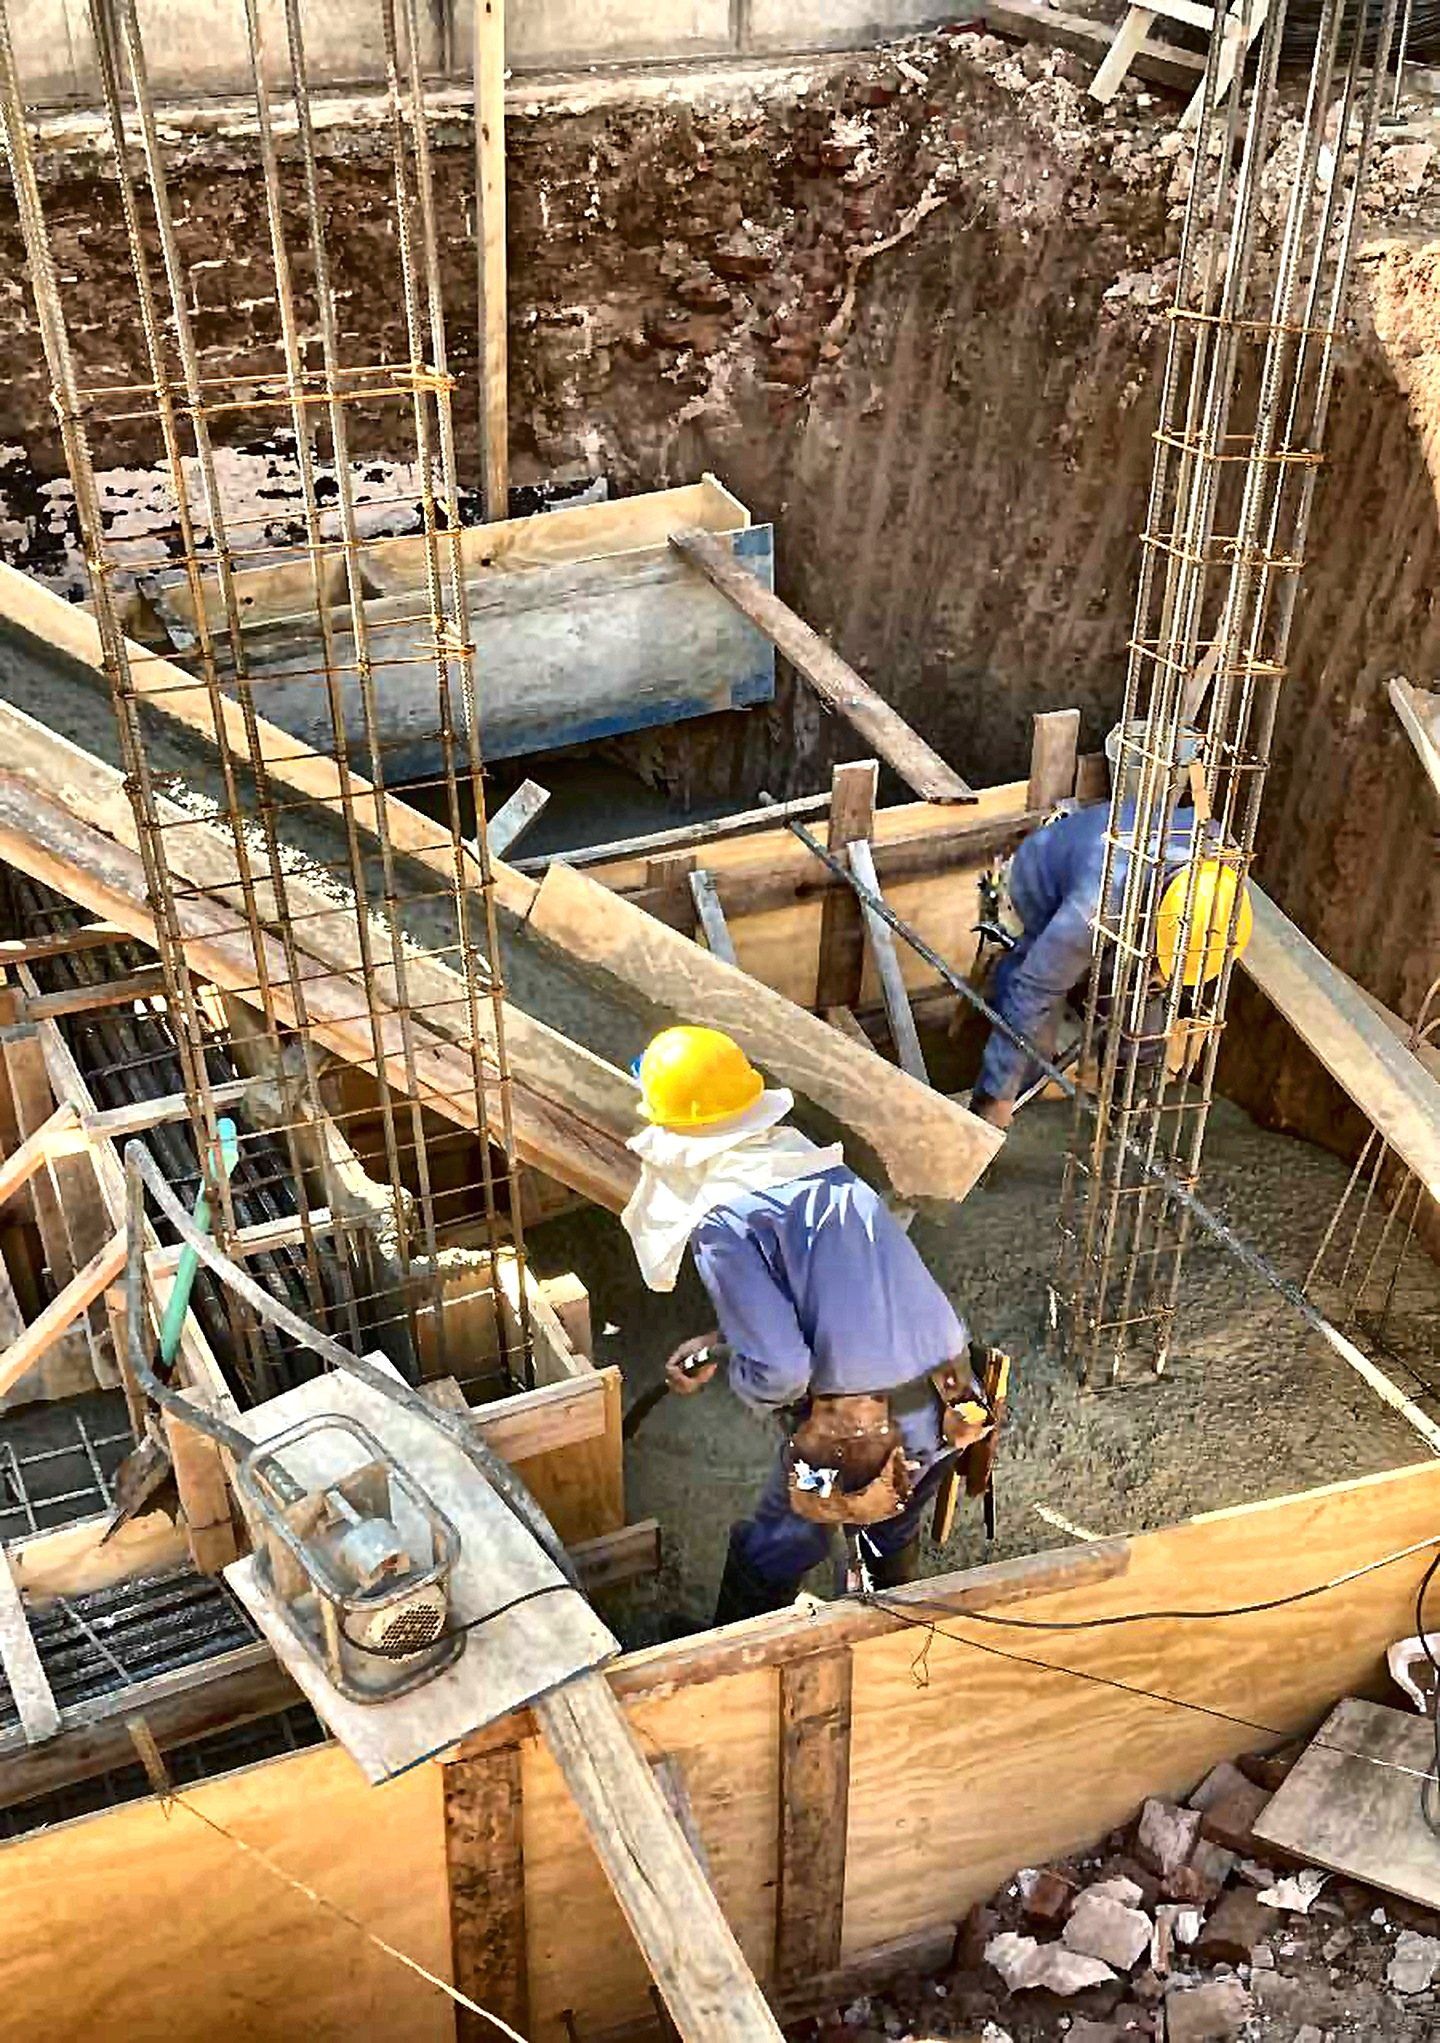
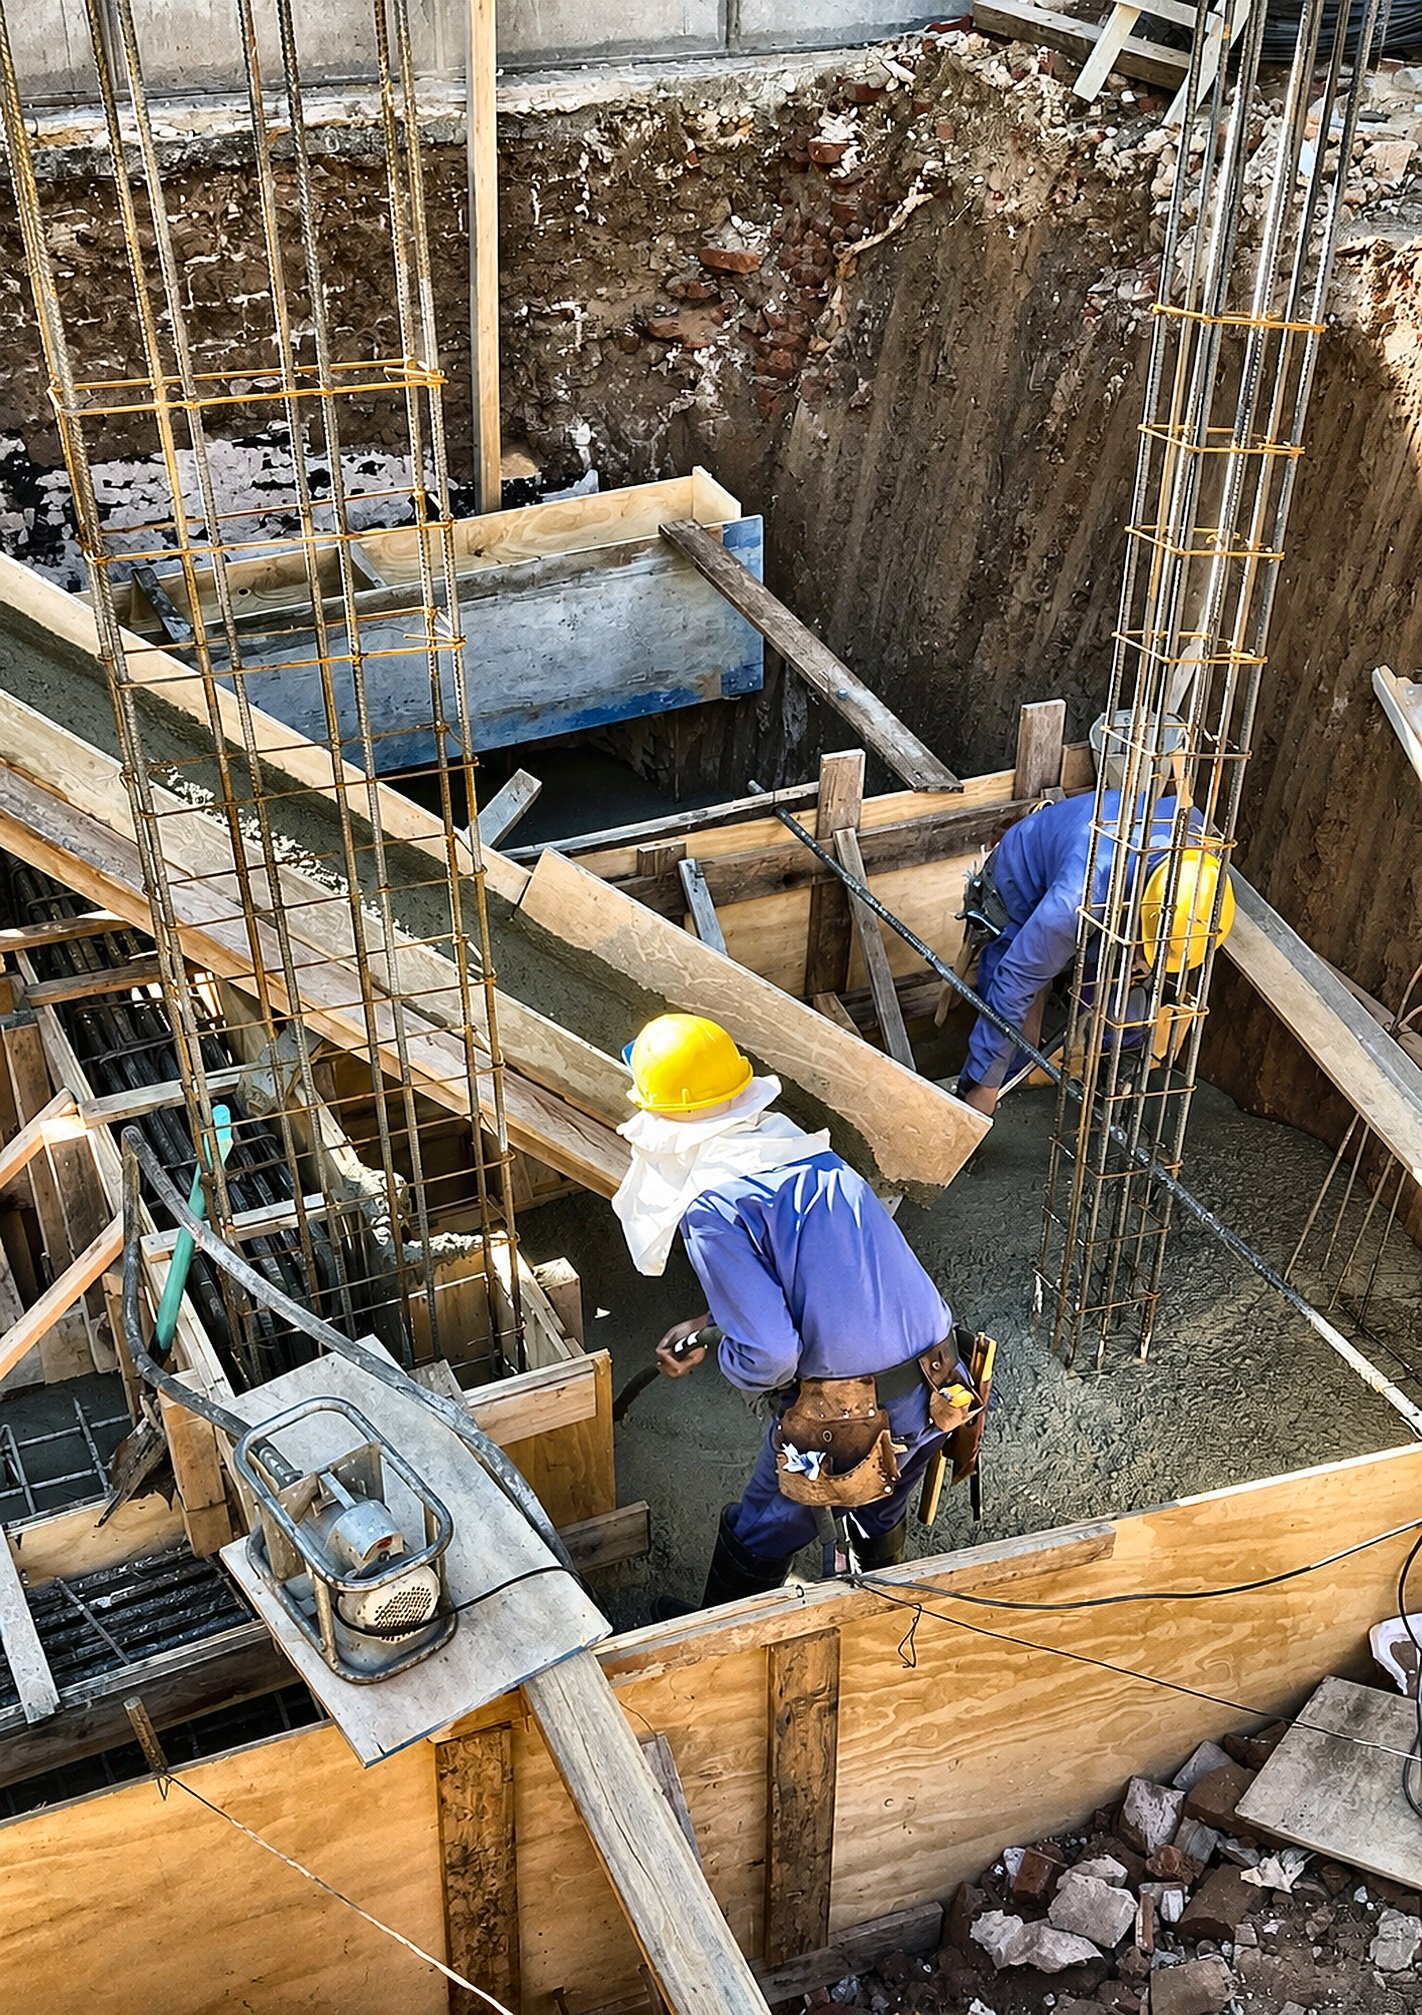
Remasterizar construction.jpg con una versión HD (ChatGPT + retoque propio)
El usuario remasterizó la foto de obra con ChatGPT a partir del
archivo fuente sin comprimir, y se le aplicó un procesamiento propio
mucho más liviano que en V4 (la base ya viene nítida): upscale 1.35x
Lanczos, unsharp suave y CLAHE leve solo para micro-contraste. Se
verificó que el encuadre a 50% 50% sigue mostrando a los dos obreros
completos en los aspect ratios extremos (desktop ancho / mobile
vertical) antes de reemplazar el archivo.

diff --git a/BITACORA.md b/BITACORA.md
@@ -320,6 +320,41 @@ Deploy: commit `dfd5ec1`, pusheado y verificado en producción
 (`https://zyh-heredia-y-zarraga.vercel.app/css/styles.css` ya sirve
 `object-position:50% 50%`).
 
+### V6 — remaster de la foto de obra con ChatGPT (fuera del entorno)
+El usuario pidió una remasterización HD real de `construction.jpg`
+("ese es el problema"). Se evaluó usar `cv2.dnn_superres` (FSRCNN)
+para super-resolución con IA local, pero requería descargar un
+modelo pre-entrenado (~41&nbsp;KB, `FSRCNN_x4.pb` desde el repo oficial
+de OpenCV en GitHub) — se pidió permiso explícito al usuario (regla de
+"descargar archivos" del harness) y **lo rechazó**, prefiriendo no
+descargar nada nuevo.
+
+En cambio, el usuario mismo le pasó la imagen fuente sin comprimir
+(`extraction/images/p03_x40_900x1277.png`, la copia más limpia
+posible, sin el CLAHE/sharpen ya aplicado en V4/V5 que podría
+confundir a un upscaler) a ChatGPT para que la remasterizara, y pegó
+el resultado en el chat. El archivo llegó a `~/Downloads/9460c6f4-bd1d-4efb-8351-6d0a7964c4a6.png`
+(1054×1493, subida automática del harness al pegar una imagen en el
+chat — el nombre es un UUID, no algo que el usuario haya escrito).
+
+Sobre esa base ya remasterizada se aplicó un procesamiento liviano
+propio (mucho más sutil que en V4, porque la base ya viene nítida):
+upscale 1.35× Lanczos (1054×1493 → 1422×2015), unsharp mask suave, y
+un CLAHE muy leve (`clipLimit=1.3` vs. 2.2 de V4) solo para afinar
+micro-contraste. Se volvió a verificar el encuadre a los mismos
+aspect ratios extremos que en V5 (desktop ancho / mobile vertical)
+antes de reemplazar el archivo — sigue funcionando bien con
+`object-position:50% 50%`, no hizo falta tocar el CSS.
+
+**Para la próxima vez que haga falta remasterizar algo**: si el
+usuario no quiere que se descarguen modelos/herramientas nuevas, la
+alternativa que funciona bien es pedirle la imagen fuente sin
+comprimir (no la ya procesada) y que él mismo la pase por una
+herramienta externa (ChatGPT u otra) y la pegue de vuelta en el chat
+— el harness la guarda automáticamente en `~/Downloads/<uuid>.png`,
+hay que buscarla ahí por fecha de modificación reciente (`find
+~/Downloads -type f -mmin -15`) ya que no llega como path explícito.
+
 ## Limitaciones del entorno (importante para no perder tiempo de nuevo)
 
 - **No hay Homebrew** en este entorno → no se puede instalar